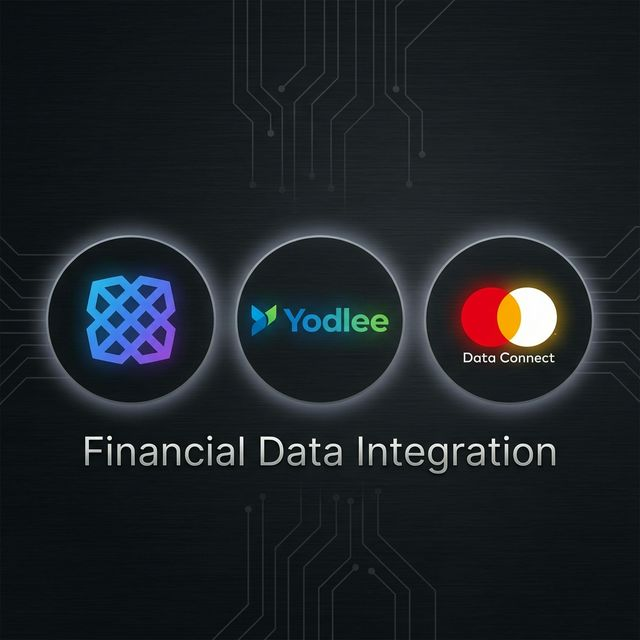
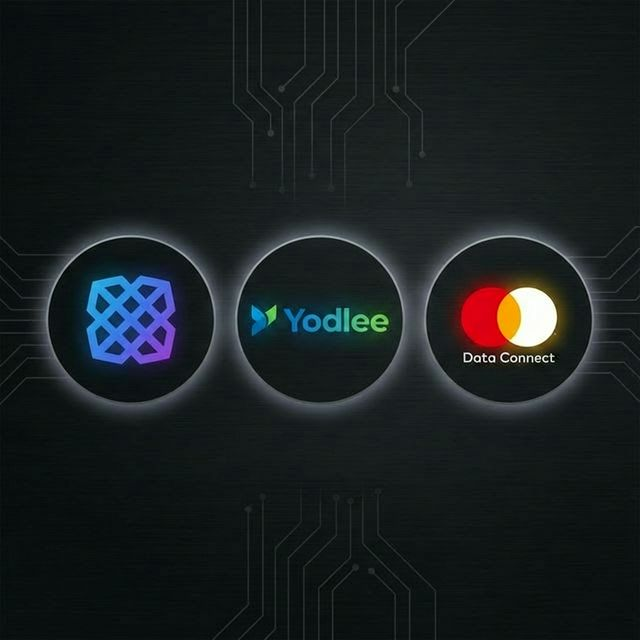
feat: Implement image centering for feature section images and reorder feature sections.

Changed region(s): [[0.125, 0.6562, 0.875, 0.75], [0.4062, 0.4688, 0.4375, 0.5]]

diff --git a/src/App.jsx b/src/App.jsx
@@ -24,8 +24,8 @@ import taxesImg from './assets/taxes.png';
 import simulationsImg from './assets/simulations.png';
 import reportingImg from './assets/reporting.png';
 import equityImg from './assets/equity.png';
-// Placeholder images for feature sections
-const privacyImg = "https://placehold.co/1200x800/1e293b/22d3ee?text=Privacy+First";
+import privacyImg from './assets/privacy.jpg';
+
 
 const Navbar = () => (
   <nav className="navbar">
@@ -46,7 +46,7 @@ const Navbar = () => (
   </nav>
 );
 
-const FeatureSection = ({ id, tag, title, description, image, reversed, children }) => (
+const FeatureSection = ({ id, tag, title, description, image, reversed, imageCentered, children }) => (
   <section id={id} className="feature-section">
     <div className={`feature-content ${reversed ? 'reversed' : ''}`}>
       <motion.div
@@ -68,7 +68,7 @@ const FeatureSection = ({ id, tag, title, description, image, reversed, children
         whileInView={{ opacity: 1, scale: 1 }}
         viewport={{ once: true }}
       >
-        <div className="feature-image-container">
+        <div className={`feature-image-container ${imageCentered ? 'centered-image' : ''}`}>
           <img src={image} alt={title} />
         </div>
       </motion.div>
@@ -127,62 +127,58 @@ function App() {
         </div>
       </FeatureSection>
 
-      <section id="features">
+      <FeatureSection
+        id="import"
+        tag="Import"
+        title="Import with Ease."
+        description="All your data is in spreadsheets? Import your historical data with Google Sheets. Lune Money will automatically recreate your categories. Total flexibility for your financial history."
+        image={googleSheetsImg}
+      />
 
-        <FeatureSection
-          id="integrations"
-          tag="Integrations"
-          title="12,000+ Financial Institutions."
-          description="Connect all your accounts in one place. Secure, real-time sync with Plaid, Yodlee, and Mastercard."
-          image={aggregatorsImg}
-          reversed
-        />
+      <FeatureSection
+        id="net-worth"
+        tag="Net Worth"
+        title="Manage Every Asset."
+        description="Track private equity and custom assets, alongside your liquid assets for a complete picture of your total net worth."
+        image={equityImg}
+        reversed
+      />
 
-        <FeatureSection
-          id="import"
-          tag="Import"
-          title="Import with Ease."
-          description="All your data is in spreadsheets? Import your historical data with Google Sheets. Lune Money will automatically recreate your categories. Total flexibility for your financial history."
-          image={googleSheetsImg}
-        />
+      <FeatureSection
+        id="taxes"
+        tag="Tax Planning"
+        title="Plan for the Future."
+        description="Smart tax estimation helps you understand your liability before you sell. Optimize for long-term gains and minimize surprises."
+        image={taxesImg}
+      />
 
-        <FeatureSection
-          id="net-worth"
-          tag="Net Worth"
-          title="Manage Every Asset."
-          description="Track private equity and custom assets, alongside your liquid assets for a complete picture of your total net worth."
-          image={equityImg}
-          reversed
-        />
-
-        <FeatureSection
-          id="taxes"
-          tag="Tax Planning"
-          title="Plan for the Future."
-          description="Smart tax estimation helps you understand your liability before you sell. Optimize for long-term gains and minimize surprises."
-          image={taxesImg}
-        />
-
-        <FeatureSection
-          id="projections"
-          tag="Projections"
-          title="Visualize Every Scenario."
-          description="Model your future finances. See how a house purchase, long term care insurance, social security, inheritance, or a career change will affect your net worth"
-          image={simulationsImg}
-          reversed
-        />
+      <FeatureSection
+        id="projections"
+        tag="Projections"
+        title="Visualize Every Scenario."
+        description="Model your future finances. See how a house purchase, long term care insurance, social security, inheritance, or a career change will affect your net worth"
+        image={simulationsImg}
+        reversed
+      />
 
 
-        <FeatureSection
-          id="reporting"
-          tag="Reporting"
-          title="Deep Insights."
-          description="Beautiful, interactive reports for cash flow. Drill down into transactions by label, owner, category, amount etc and see where your money goes."
-          image={reportingImg}
-          reversed
-        />
-      </section>
+      <FeatureSection
+        id="reporting"
+        tag="Reporting"
+        title="Deep Insights."
+        description="Beautiful, interactive reports for cash flow. Drill down into transactions by label, owner, category, amount etc and see where your money goes."
+        image={reportingImg}
+      />
 
+      <FeatureSection
+        id="integrations"
+        tag="Integrations"
+        title="12,000+ Financial Institutions."
+        description="Connect all your accounts in one place. Secure, real-time sync with Plaid, Yodlee, and Mastercard."
+        image={aggregatorsImg}
+        imageCentered
+        reversed
+      />
       <section id="request-access" className="request-access">
         <h2>Ready to take control?</h2>
         <p>Request an invite to start self-hosting Lune Money today.</p>

diff --git a/src/index.css b/src/index.css
@@ -283,6 +283,7 @@ body {
 
 .feature-image-container {
   width: 100%;
+  aspect-ratio: 3 / 2;
   border-radius: 1.5rem;
   overflow: hidden;
   border: 1px solid var(--glass-border);
@@ -293,8 +294,15 @@ body {
 
 .feature-image-container img {
   width: 100%;
+  height: 100%;
   display: block;
+  object-fit: cover;
+  object-position: top left;
   border-radius: 0.75rem;
+}
+
+.feature-image-container.centered-image img {
+  object-position: center center;
 }
 
 @media (max-width: 1024px) {
